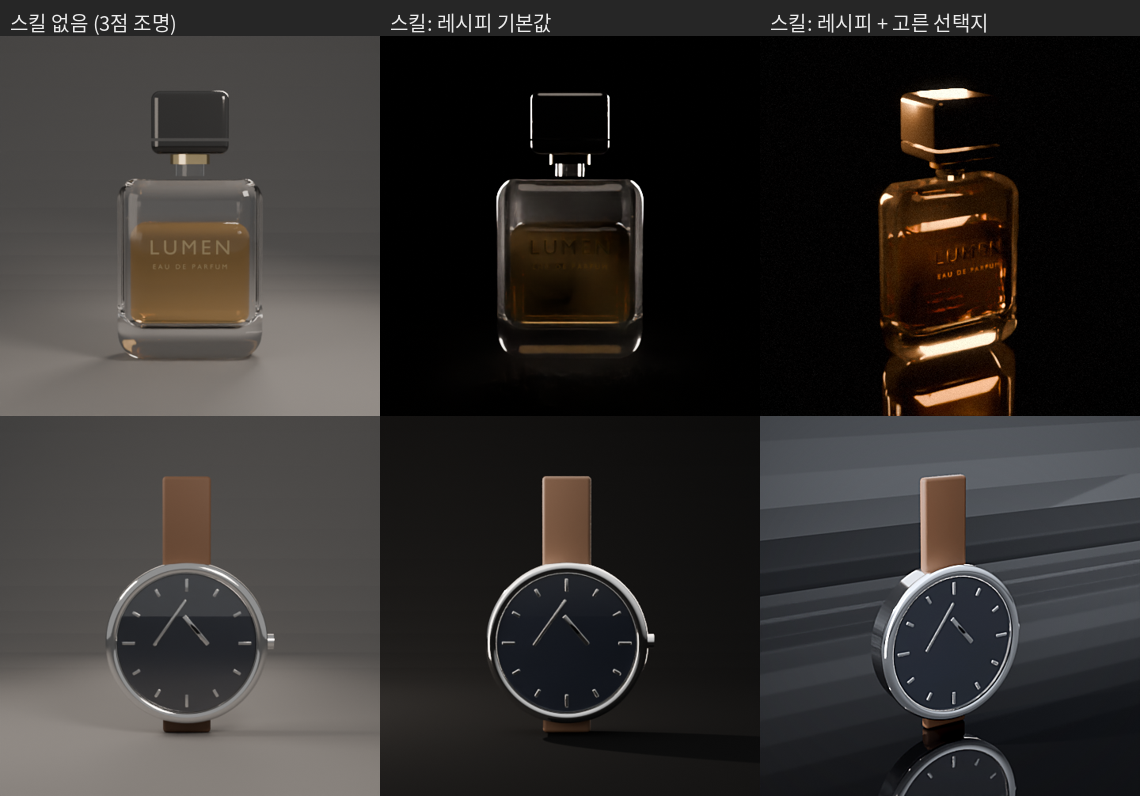
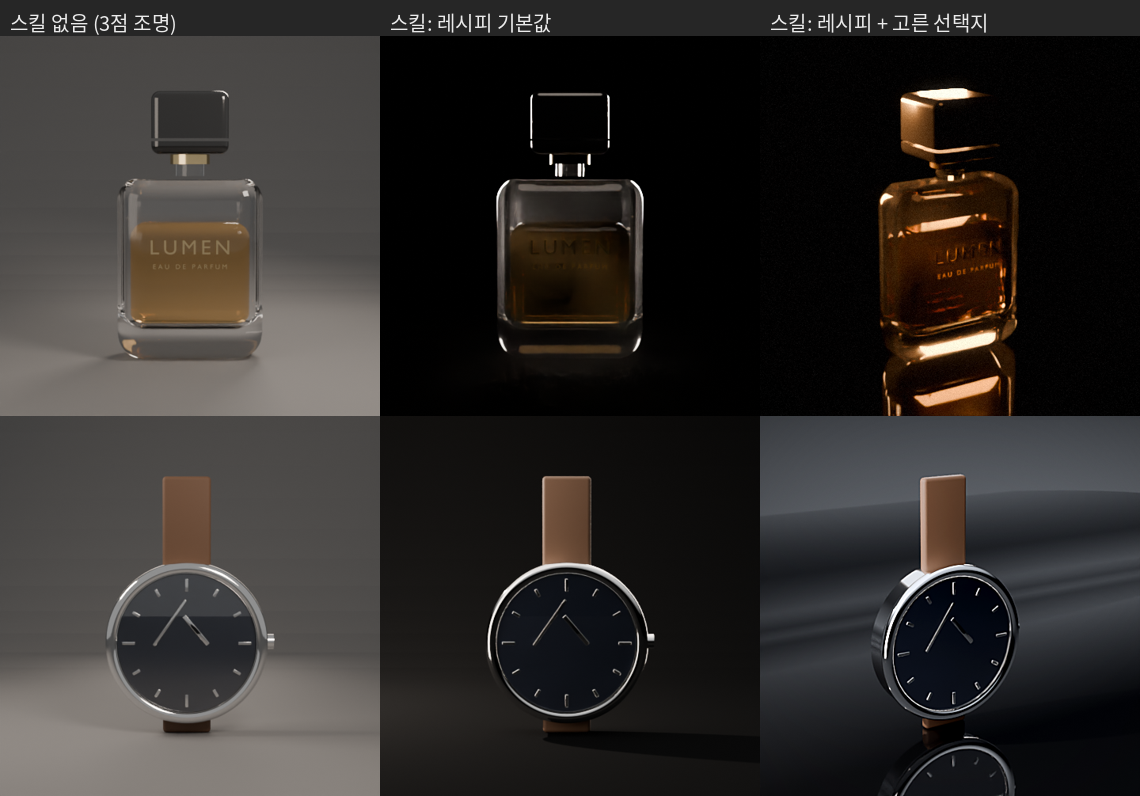
Smooth dense backdrop curve (no stripes in glossy floors); reflection gradient dark at horizon
Claude-Session: https://claude.ai/code/session_01T4dBgPbGaUqaWyRtkrxAEs

diff --git a/tools/render_recipe.py b/tools/render_recipe.py
@@ -66,12 +66,15 @@ def render(rid, model, out, RES=480, SAMPLES=128, extra=None):
     alb = BACKDROP.get(bd, 0.05)
     S = size * 6
     me = bpy.data.meshes.new("Sweep")
-    prof = [(-S, 0)] + [(S * 0.3 * math.sin(t / 12 * math.pi / 2), S * 0.3 * (1 - math.cos(t / 12 * math.pi / 2))) for t in range(13)] + [(S * 0.3, S)]
+    N_CURVE = 48  # dense + smooth: a faceted curve shows as stripes in glossy backdrops
+    prof = [(-S, 0)] + [(S * 0.3 * math.sin(t / N_CURVE * math.pi / 2), S * 0.3 * (1 - math.cos(t / N_CURVE * math.pi / 2))) for t in range(N_CURVE + 1)] + [(S * 0.3, S)]
     verts, faces = [], []
     for i, (y, z) in enumerate(prof):
         verts += [(-S, y + size * 1.2, z + lo.z), (S, y + size * 1.2, z + lo.z)]
         if i: faces.append((2 * i - 2, 2 * i - 1, 2 * i + 1, 2 * i))
     me.from_pydata(verts, [], faces)
+    for poly in me.polygons:
+        poly.use_smooth = True
     sweep = bpy.data.objects.new("LT_Sweep", me)
     bpy.context.scene.collection.objects.link(sweep)
     m = bpy.data.materials.new("Backdrop"); m.use_nodes = True
@@ -137,7 +140,7 @@ def render(rid, model, out, RES=480, SAMPLES=128, extra=None):
         bg_cam = next(n for n in nodes if n.type == 'BACKGROUND')
         tc = nodes.new("ShaderNodeTexCoord"); sep = nodes.new("ShaderNodeSeparateXYZ")
         mr = nodes.new("ShaderNodeMapRange")
-        mr.inputs["From Min"].default_value = -0.1; mr.inputs["From Max"].default_value = 0.9
+        mr.inputs["From Min"].default_value = 0.25; mr.inputs["From Max"].default_value = 1.0  # dark near the horizon so glossy floors stay clean
         bg_ref = nodes.new("ShaderNodeBackground")
         bg_ref.inputs["Strength"].default_value = env.get("strength", 0.6)
         lp = nodes.new("ShaderNodeLightPath"); mix = nodes.new("ShaderNodeMixShader")
